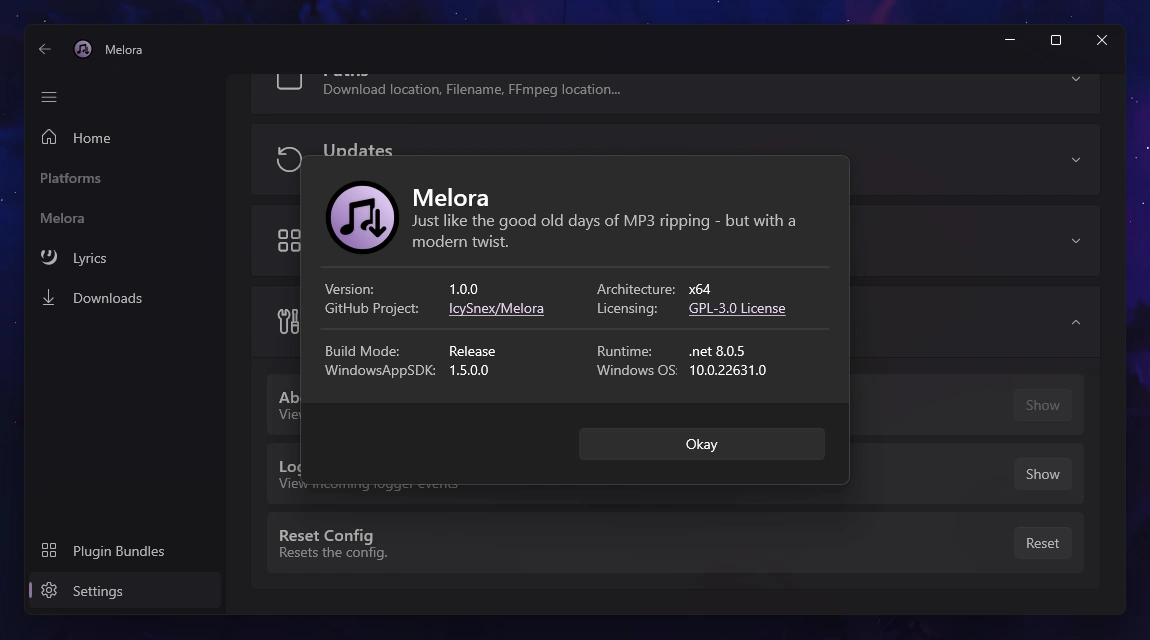
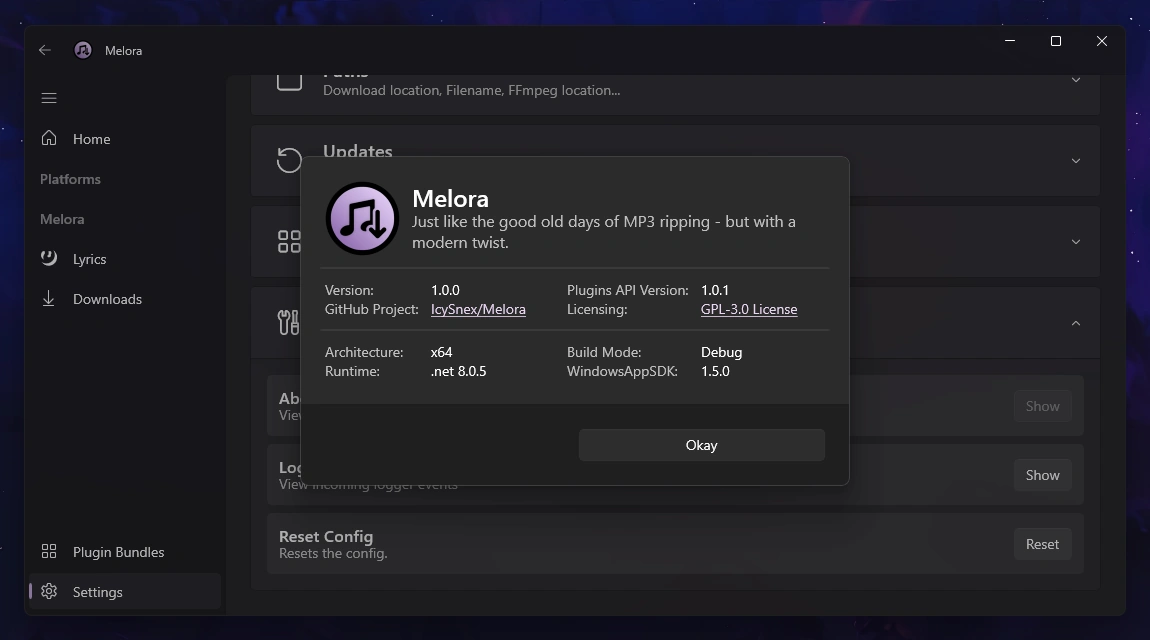
Improved "About Melora" dialog

diff --git a/Melora/Views/AboutView.xaml b/Melora/Views/AboutView.xaml
@@ -70,16 +70,16 @@
             <TextBlock
                 Grid.Row="0"
                 Grid.Column="2"
-                Text="{x:Bind srv:UpdateManager.CurrentVersion.ToString(3)}" />
+                Text="{x:Bind srv:UpdateManager.Version.ToString(3)}" />
             <TextBlock
                 Grid.Row="0"
                 Grid.Column="4"
                 Opacity="0.7"
-                Text="Architecture:" />
+                Text="Plugins API Version:" />
             <TextBlock
                 Grid.Row="0"
                 Grid.Column="6"
-                Text="{x:Bind srv:UpdateManager.Architecture}" />
+                Text="{x:Bind srv:UpdateManager.PluginsAPIVersion.ToString(3)}" />
 
             <TextBlock
                 Grid.Row="1"
@@ -107,39 +107,38 @@
                 Grid.Row="3"
                 Grid.Column="0"
                 Opacity="0.7"
-                Text="Build Mode:" />
+                Text="Architecture:" />
             <TextBlock
                 Grid.Row="3"
                 Grid.Column="2"
-                Text="{x:Bind BuildMode}" />
+                Text="{x:Bind srv:UpdateManager.Architecture}" />
             <TextBlock
                 Grid.Row="3"
                 Grid.Column="4"
                 Opacity="0.7"
-                Text="Runtime:" />
-            <TextBlock Grid.Row="3" Grid.Column="6">
-                <Run Text=".net" />
-                <Run Text="{x:Bind RuntimeVersion}" />
-            </TextBlock>
+                Text="Build Mode:" />
+            <TextBlock
+                Grid.Row="3"
+                Grid.Column="6"
+                Text="{x:Bind srv:UpdateManager.BuildMode}" />
 
             <TextBlock
                 Grid.Row="4"
                 Grid.Column="0"
                 Opacity="0.7"
-                Text="WindowsAppSDK:" />
-            <TextBlock
-                Grid.Row="4"
-                Grid.Column="2"
-                Text="{x:Bind WindowsAppSDKVersion}" />
+                Text="Runtime:" />
+            <TextBlock Grid.Row="4" Grid.Column="2">
+                <Run Text=".net" />
+                <Run Text="{x:Bind srv:UpdateManager.RuntimeVersion.ToString(3)}" /></TextBlock>
             <TextBlock
                 Grid.Row="4"
                 Grid.Column="4"
                 Opacity="0.7"
-                Text="Windows OS:" />
+                Text="WindowsAppSDK:" />
             <TextBlock
                 Grid.Row="4"
                 Grid.Column="6"
-                Text="{x:Bind WindowsOSVersion}" />
+                Text="{x:Bind srv:UpdateManager.WindowsAppSDKVersion.ToString(3)}" />
         </Grid>
     </Grid>
 </Page>

diff --git a/Melora/Services/UpdateManager.cs b/Melora/Services/UpdateManager.cs
@@ -1,18 +1,31 @@
 using Melora.Models;
 using Microsoft.Extensions.Logging;
 using Microsoft.UI.Xaml;
+using Microsoft.Windows.AppLifecycle;
 using System.Diagnostics;
 using System.IO.Compression;
-using System.Reflection;
 using System.Runtime.InteropServices;
 
 namespace Melora.Services;
 
 public class UpdateManager
 {
+    public readonly static Version Version = typeof(App).Assembly.GetName().Version ?? new(1, 0, 0);
+
+    public readonly static Version PluginsAPIVersion = typeof(Plugins.PluginLoadContext).Assembly.GetName().Version ?? new(1, 0, 0);
+
     public readonly static string Architecture = RuntimeInformation.ProcessArchitecture.ToString().ToLowerInvariant();
 
-    public readonly static Version CurrentVersion = Assembly.GetExecutingAssembly().GetName().Version ?? new(1, 0, 0);
+#if DEBUG
+    public readonly static string BuildMode = "Debug";
+#else
+    public readonly static string BuildMode = "Release";
+#endif
+
+    public readonly static Version RuntimeVersion = Environment.Version;
+
+    public readonly static Version WindowsAppSDKVersion = typeof(AppInstance).Assembly.GetName().Version ?? new(1, 0, 0, 0);
+
 
 
     readonly ILogger<UpdateManager> logger;
@@ -31,7 +44,7 @@ public class UpdateManager
         this.converter = converter;
 
         client = new();
-        client.DefaultRequestHeaders.UserAgent.ParseAdd($"Melora/{CurrentVersion} (https://icysnex.github.io/Melora/)");
+        client.DefaultRequestHeaders.UserAgent.ParseAdd($"Melora/{Version} (https://icysnex.github.io/Melora/)");
 
         logger.LogInformation("[UpdateManager-.ctor] UpdateManager has been initialized");
     }

diff --git a/Melora/Views/AboutView.xaml.cs b/Melora/Views/AboutView.xaml.cs
@@ -1,5 +1,4 @@
 using Microsoft.UI.Xaml.Controls;
-using System.Reflection;
 
 namespace Melora.Views;
 
@@ -8,23 +7,5 @@ public sealed partial class AboutView : Page
     public AboutView()
     {
         InitializeComponent();
-
-#if DEBUG
-        BuildMode = "Debug";
-#else
-    BuildMode = "Release";
-#endif
-        RuntimeVersion = Environment.Version;
-        WindowsAppSDKVersion = Assembly.Load("Microsoft.WindowsAppRuntime.Bootstrap.Net").GetName().Version ?? new Version(1, 0, 0, 0);
-        WindowsOSVersion = Environment.OSVersion.Version;
     }
-
-
-    string BuildMode { get; }
-
-    Version RuntimeVersion { get; }
-
-    Version WindowsAppSDKVersion { get; }
-
-    Version WindowsOSVersion { get; }
 }

diff --git a/Melora/ViewModels/SettingsViewModel.cs b/Melora/ViewModels/SettingsViewModel.cs
@@ -126,7 +126,7 @@ public partial class SettingsViewModel : ObservableObject
         try
         {
             Release release = await updateManager.GetLatestReleaseAsync();
-            if (release.Version <= UpdateManager.CurrentVersion)
+            if (release.Version <= UpdateManager.Version)
             {
                 logger.LogInformation("[SettingsViewModel-TryGetUpdatesAsync] Newest version is already installed");
                 return true;
